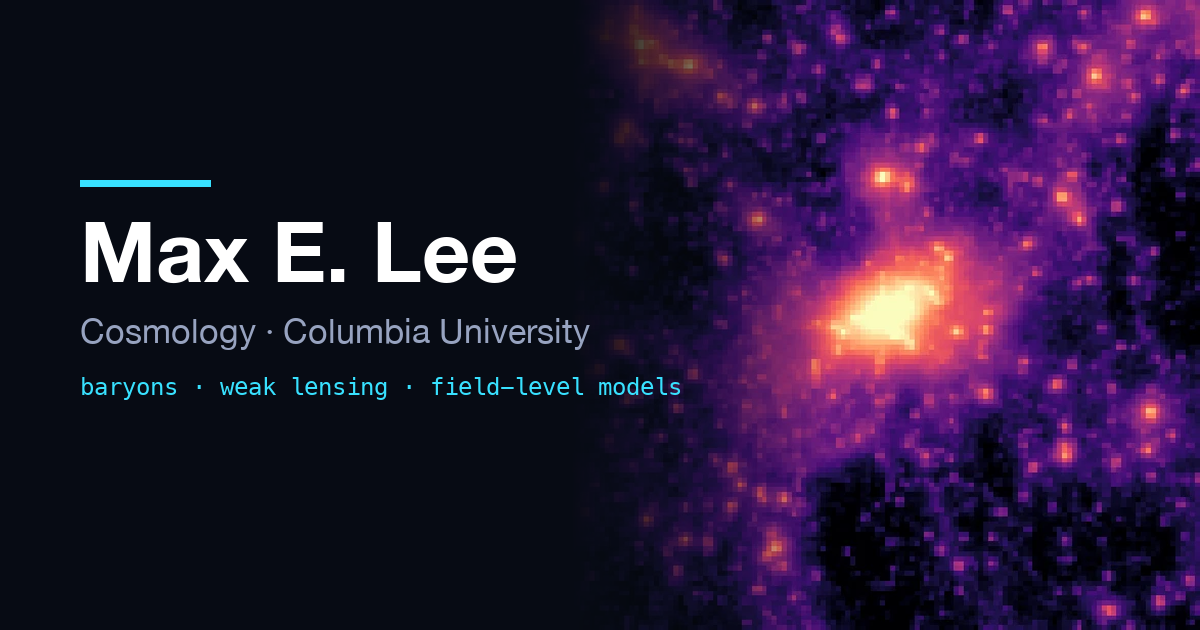
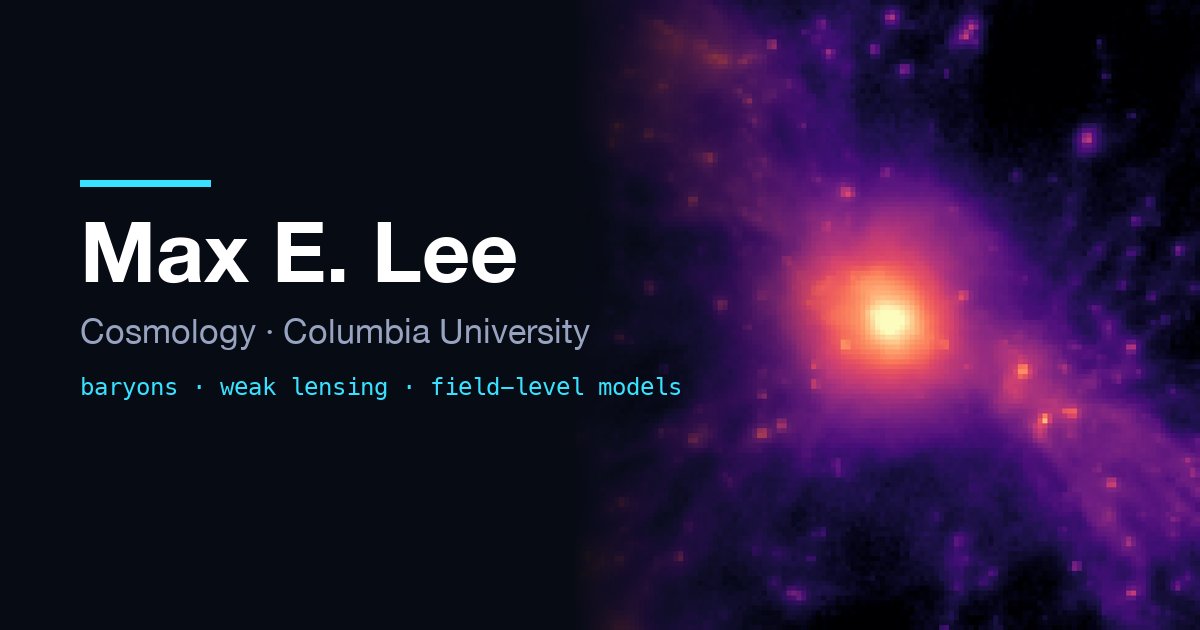
Replace interim figures with re-rendered BIND fields + animations
Re-render the talk_figs2 npz caches (real BIND model output) in the
site's magma-on-dark language via scripts/render_site_figs.py:
- New homepage hero: BIND-generated gas field of a 1e14 Msun halo
- Feature strip is now the flow-matching story: noise -> t=0.5 ->
  BIND -> IllustrisTNG truth (four panels)
- /bind/ gains an animated flow-matching generation (61-frame WebP,
  225 KB), two animated single-parameter sweeps (wind velocity, IMF
  slope), and the power-spectrum validation figure
- Methods paper teaser swapped to the BIND dark-matter field
- og card regenerated from the new hero; VISUALS.md status updated
  (remaining brief: lightcone kappa/tau/y maps)

diff --git a/_includes/home/bind-feature.html b/_includes/home/bind-feature.html
@@ -10,8 +10,8 @@
       </div>
     </div>
     <div class="feature-card__visual">
-      <img src="/images/bind/trajectory.webp" alt="Three panels: the dark-matter-only input field, a BIND draw, and the mean over 100 BIND draws" loading="lazy" width="1954" height="646">
-      <p class="hero__visual-caption">DMO input &rarr; BIND draw &rarr; mean of 100 draws</p>
+      <img src="/images/bind/trajectory.webp" alt="Four panels showing a gas field generated by flow matching: pure noise, the intermediate state at t equals 0.5, the finished BIND field, and the IllustrisTNG truth" loading="lazy" width="2072" height="512">
+      <p class="hero__visual-caption">flow matching: noise &rarr; t&thinsp;=&thinsp;0.5 &rarr; BIND &rarr; IllustrisTNG truth</p>
     </div>
   </div>
 </section>

diff --git a/_sass/cosmic/_pages.scss b/_sass/cosmic/_pages.scss
@@ -109,6 +109,50 @@
   }
 }
 
+.sweep-pair {
+  display: grid;
+  grid-template-columns: minmax(0, 1fr);
+  gap: 1.25rem;
+  margin: 1.5rem 0;
+
+  figure {
+    margin: 0;
+  }
+
+  img {
+    width: 100%;
+    border-radius: var(--radius);
+    border: 1px solid var(--border-strong);
+  }
+
+  figcaption {
+    font-family: var(--font-mono);
+    font-size: var(--fs-xs);
+    color: var(--faint);
+    margin-top: 0.5rem;
+    text-align: center;
+  }
+}
+
+@media (min-width: $bp-sm) {
+  .sweep-pair {
+    grid-template-columns: repeat(2, minmax(0, 1fr));
+  }
+}
+
+.bind-hero img {
+  max-width: 512px;
+  margin: 0 auto;
+}
+
+.bind-validation {
+  max-width: 34rem;
+
+  img {
+    background: #ffffff;
+  }
+}
+
 // ---- CV ----
 
 .cv-actions {

diff --git a/_includes/home/hero.html b/_includes/home/hero.html
@@ -20,8 +20,8 @@
       </div>
     </div>
     <div class="hero__visual">
-      <img src="/images/bind/hero-field.webp" alt="A BIND-generated projected dark-matter field of a massive halo" width="646" height="646">
-      <p class="hero__visual-caption">BIND-generated dark-matter field &middot; conditioned on IllustrisTNG</p>
+      <img src="/images/bind/hero-field.webp" alt="A BIND-generated projected gas field of a cluster-mass halo, glowing core with filaments" width="1024" height="1024">
+      <p class="hero__visual-caption">BIND-generated gas field &middot; 10¹⁴ M⊙ halo &middot; conditioned on IllustrisTNG</p>
     </div>
   </div>
 </section>

diff --git a/scripts/render_site_figs.py b/scripts/render_site_figs.py
@@ -1,0 +1,90 @@
+#!/usr/bin/env python3
+"""Render BIND field caches into site-styled assets (magma on #070b14).
+
+Inputs: the npz caches produced by talk_figs task_a_fm_frames.py /
+task_b_param_sweep.py (frames/fields arrays of shape [N, 7, 128, 128];
+channels 0=dm, 1=gas, 2=stars). Point CACHE at that directory and run with
+any python that has numpy + matplotlib + Pillow.
+
+Outputs (drop into images/ and convert to webp as noted in VISUALS.md):
+  hero-gas-t1.png       homepage hero          -> images/bind/hero-field.webp
+  trajectory-strip.png  noise->t.5->BIND->truth -> images/bind/trajectory.webp
+  fm-gas.webp           flow-matching animation -> images/bind/fm-gas.webp
+  sweep-*.webp          parameter sweep loops   -> images/bind/sweep-*.webp
+  teaser-dm.png         methods paper teaser    -> images/pubs/bind-methods.webp
+
+Normalization matches the talk figures: log10 stretch from the 5th percentile
+of positive pixels to the 99.9th, fixed per channel from the t=1 frame;
+nearest-neighbor upsample keeps the native 128^2 pixels crisp.
+"""
+import os
+import numpy as np
+from matplotlib import colormaps
+from PIL import Image
+
+CACHE = os.path.expanduser('~/Downloads/talk_figs2/cache')
+OUT = os.path.expanduser('~/Desktop/site_renders')
+BG = (7, 11, 20)
+CMAP = colormaps['magma']
+DM, GAS, STAR = 0, 1, 2
+
+
+def stretch_from(ref):
+    pos = ref[ref > 0]
+    return np.percentile(pos, 5), np.percentile(pos, 99.9)
+
+
+def render(img, lo, hi, size=512):
+    a = np.log10(np.clip(img, lo, hi))
+    a = (a - np.log10(lo)) / (np.log10(hi) - np.log10(lo))
+    rgb = (CMAP(a)[..., :3] * 255).astype(np.uint8)
+    return Image.fromarray(rgb).resize((size, size), Image.NEAREST)
+
+
+def main():
+    os.makedirs(OUT, exist_ok=True)
+    za = np.load(f'{CACHE}/task_a_trajectory.npz')
+    frames, truth, ts = za['frames'], za['truth'], za['ts']
+    lo_g, hi_g = stretch_from(frames[-1, GAS])
+    lo_d, hi_d = stretch_from(frames[-1, DM])
+
+    # 4-panel trajectory strip (gas): noise -> t=0.5 -> BIND -> truth
+    i_half = int(np.argmin(np.abs(ts - 0.5)))
+    panels = [render(frames[0, GAS], lo_g, hi_g),
+              render(frames[i_half, GAS], lo_g, hi_g),
+              render(frames[-1, GAS], lo_g, hi_g),
+              render(truth[GAS], lo_g, hi_g)]
+    gap, size = 8, 512
+    strip = Image.new('RGB', (size * 4 + gap * 3, size), BG)
+    for i, p in enumerate(panels):
+        strip.paste(p, (i * (size + gap), 0))
+    strip.save(f'{OUT}/trajectory-strip.png')
+
+    # Flow-matching animation (gas), long hold on the finished field
+    anim = [render(frames[i, GAS], lo_g, hi_g) for i in range(len(frames))]
+    dur = [60] * len(anim)
+    dur[-1] = 1800
+    anim[0].save(f'{OUT}/fm-gas.webp', save_all=True, append_images=anim[1:],
+                 duration=dur, loop=0, quality=55, method=4)
+
+    # Parameter sweeps (gas), ping-pong loops with holds at the ends
+    for name, fn in [('sweep-imf', 'task_b_IMFslope'),
+                     ('sweep-wind', 'task_b_VarWindVelFactor')]:
+        zb = np.load(f'{CACHE}/{fn}.npz')
+        flds = zb['fields']
+        lo, hi = stretch_from(flds[len(flds) // 2, GAS])
+        seq = [render(flds[i, GAS], lo, hi, 448) for i in range(len(flds))]
+        pp = seq + seq[-2:0:-1]
+        d = [90] * len(pp)
+        d[0] = 700
+        d[len(seq) - 1] = 700
+        pp[0].save(f'{OUT}/{name}.webp', save_all=True, append_images=pp[1:],
+                   duration=d, loop=0, quality=55, method=4)
+
+    render(frames[-1, GAS], lo_g, hi_g, 1024).save(f'{OUT}/hero-gas-t1.png')
+    render(frames[-1, DM], lo_d, hi_d, 640).save(f'{OUT}/teaser-dm.png')
+    print('done ->', OUT)
+
+
+if __name__ == '__main__':
+    main()

diff --git a/_pages/bind.md b/_pages/bind.md
@@ -9,11 +9,11 @@ teaser: /images/bind/hero-field.webp
 ---
 
 <figure class="bind-hero">
-<img src="/images/bind/trajectory.webp" alt="Three panels showing the dark-matter-only input field, a BIND draw, and the mean over 100 BIND draws" width="1954" height="646">
-<figcaption>DMO input → a BIND draw → the mean over 100 draws, for a cluster-mass halo.</figcaption>
+<img src="/images/bind/fm-gas.webp" alt="Animation of flow matching: a gas field emerging from pure noise into a cluster-mass halo" width="512" height="512">
+<figcaption>Watch the generation itself: BIND integrates a learned velocity field from pure noise (t&thinsp;=&thinsp;0) to the finished gas field (t&thinsp;=&thinsp;1) of a 10¹⁴ M⊙ halo — about a second of GPU time.</figcaption>
 </figure>
 
-**BIND** (Baryonic INpainting with Deep learning) is a conditional flow-matching model trained on the 1024 paired hydrodynamical and dark-matter-only simulations of the CAMELS SB35 suite. Given a dark-matter-only halo, it generates the corresponding dark matter, gas, and stellar mass fields — conditioned on the full 35-dimensional ΛCDM and IllustrisTNG galaxy formation parameter space, in about a second per halo on one GPU.
+**BIND** (Baryonic INpainting with Deep learning) is a conditional flow-matching model trained on the 1024 paired hydrodynamical and dark-matter-only simulations of the CAMELS SB35 suite. Given a dark-matter-only halo, it generates the corresponding dark matter, gas, and stellar mass fields — conditioned on the full 35-dimensional ΛCDM and IllustrisTNG galaxy formation parameter space.
 
 Applied halo-by-halo to full N-body volumes and ray-traced, BIND produces convergence, optical depth, and Compton-y maps whose statistics match full hydrodynamical simulations to within the precision of upcoming surveys. The trained models, generated halos, and map suites are released as open-source tools.
 
@@ -21,6 +21,30 @@ Applied halo-by-halo to full N-body volumes and ray-traced, BIND produces conver
 
 - [BIND (Baryonic INpainting with Deep learning): A Field-level Emulator for Galaxy Groups and Clusters](/publication/2026-09-09-BIND-methods) — the model: training, validation, and halo-level performance. [Download PDF](/files/BIND_methods.pdf)
 - [BINDing the lightcone: A suite of astrophysical ray-traced weak lensing and SZ maps](/publication/2026-09-09-BIND-lightcone) — the maps: 1000 pseudo-independent realizations across the IllustrisTNG galaxy formation prior. [Download PDF](/files/BINDing_the_lightcone.pdf)
+
+## Turning the astrophysical dials
+
+BIND is conditioned on every IllustrisTNG galaxy formation parameter, so the same halo can be regenerated under different astrophysics. Here one parameter sweeps across its prior while everything else — including the initial noise — stays fixed:
+
+<div class="sweep-pair">
+<figure>
+<img src="/images/bind/sweep-wind.webp" alt="Animation of the same halo's gas field as the galactic wind velocity factor sweeps from 3.7 to 14.8" width="448" height="448">
+<figcaption>galactic wind velocity &times;3.7 &rarr; &times;14.8</figcaption>
+</figure>
+<figure>
+<img src="/images/bind/sweep-imf.webp" alt="Animation of the same halo's gas field as the stellar initial mass function slope sweeps from minus 2.8 to minus 1.8" width="448" height="448">
+<figcaption>IMF slope &minus;2.8 &rarr; &minus;1.8</figcaption>
+</figure>
+</div>
+
+## Does it get the physics right?
+
+Beyond looking right, the generated halos reproduce the target statistics. Pasted back into an N-body volume, BIND recovers the projected matter power-spectrum suppression to the accuracy ceiling set by pasting in the true hydrodynamical halos themselves:
+
+<figure class="bind-validation">
+<img src="/images/bind/validation-ps.webp" alt="Power spectrum ratio P(k) over P DMO of k, showing BIND tracking the truth and the hydro-replaced ceiling" loading="lazy" width="1059" height="1100">
+<figcaption>Projected matter power-spectrum suppression: BIND (red) against the IllustrisTNG truth (black) and the hydro-replacement ceiling (dashed).</figcaption>
+</figure>
 
 ## Try it live
 

diff --git a/VISUALS.md b/VISUALS.md
@@ -1,8 +1,16 @@
 # Website visual briefs (cluster-side generation)
 
 Instructions for generating final artwork for maxelee.github.io on the cluster.
-The site currently uses interim figures extracted from the paper PDFs; anything
-generated from these briefs replaces them 1:1 (same filename → drop in, done).
+Anything generated from these briefs replaces the current asset 1:1 (same
+filename → drop in, done).
+
+> **Status (Sep 2026):** briefs 1, 2, and the methods teaser are DONE — the
+> talk_figs2 npz caches (task_a trajectory + task_b sweeps) were re-rendered
+> site-side in magma via `scripts/render_site_figs.py`, which also produced
+> animated flow-matching and parameter-sweep WebPs now on `/bind/`. Still
+> open: **#3 (lightcone κ/τ/y maps)** — the highest-value remaining item —
+> plus the optional #4/#5/#6b/#6c. New raw fields dropped as npz (same shapes
+> as the talk caches) can be re-rendered with the same script.
 
 **Global spec, applies to every asset:**
 
